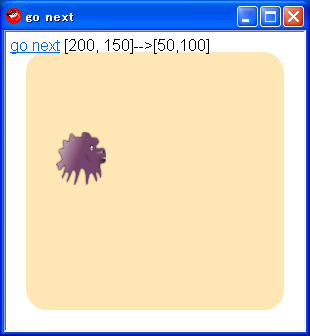
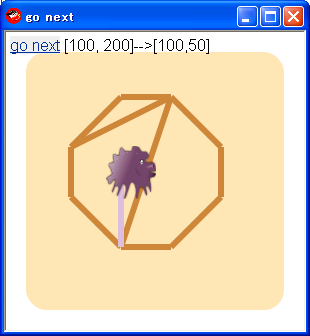
Added a option which draws a line.

diff --git a/samples/sample39_creature.rb b/samples/sample39_creature.rb
@@ -1,12 +1,12 @@
 # sample39_creature.rb
-
 class Shoes::Creature < Shoes::Widget
   def initialize path, x, y
+    @path = path
     @img = image path
     @img.move x, y
   end
   
-  def glide args
+  def glide args, opt = {:line => false}
     args << @img.left << @img.top
     x1, y1, x0, y0 = args.collect{|e| e.to_f}
     
@@ -34,8 +34,20 @@ class Shoes::Creature < Shoes::Widget
         else
       end
         
-      @img.show.move x.to_i, y.to_i
-      (a.stop; @playing = false) if i == max
+      @l.remove if @l
+      strokewidth 6
+      @l = line(x0 + 15, y0 + 15, x.to_i + 15, y.to_i + 15, :stroke => thistle)  if opt[:line]
+      #@img.move x.to_i, y.to_i
+      @img.remove
+      @img = image @path, :left => x.to_i, :top => y.to_i
+      
+      if i == max
+        a.stop
+        @playing = false
+        line(x0 + 15, y0 + 15, x.to_i + 15, y.to_i + 15, :stroke => peru)  if opt[:line]
+        @img.remove
+        @img = image @path, :left => x.to_i, :top => y.to_i
+      end
     end
   end
     

diff --git a/samples/sample39.rb b/samples/sample39.rb
@@ -7,13 +7,13 @@ Shoes.app :title => 'go next', :width => 300, :height => 300 do
   c = creature(Dir.pwd + '/loogink.png', 50, 100)
   
   routes = [[100, 50], [150, 50], [200, 100], [200, 150], [150, 200], [100, 200], [50, 150],
-                [50, 100], [200, 150], [50, 100]]
+            [50, 100], [150, 50], [100, 200], [50, 100]]
   i = -1
   para link('go next'){
     begin
       x, y = routes[(i+=1) % 10]
       @msg.text = "#{c.position.inspect}-->[#{x},#{y}]"
-      c.glide [x, y]
+      c.glide [x, y], :line => true
     end unless c.playing?
   }
 
